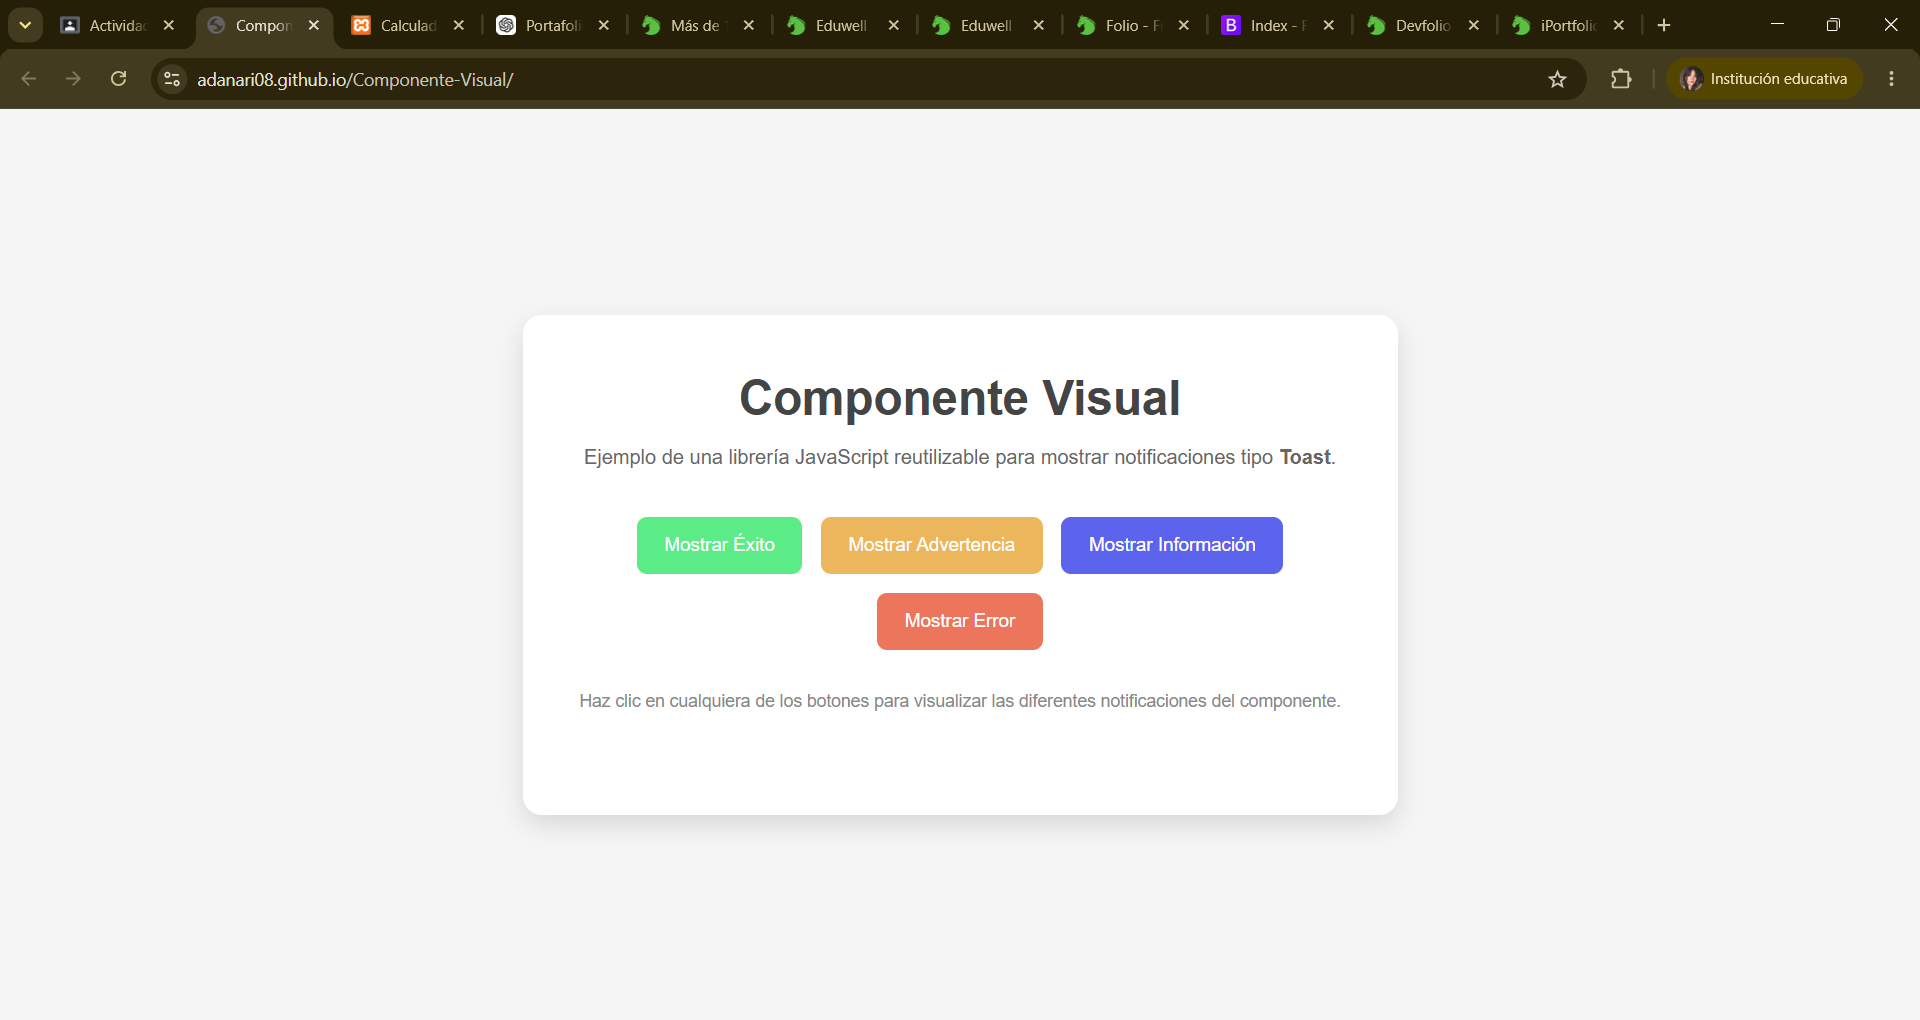
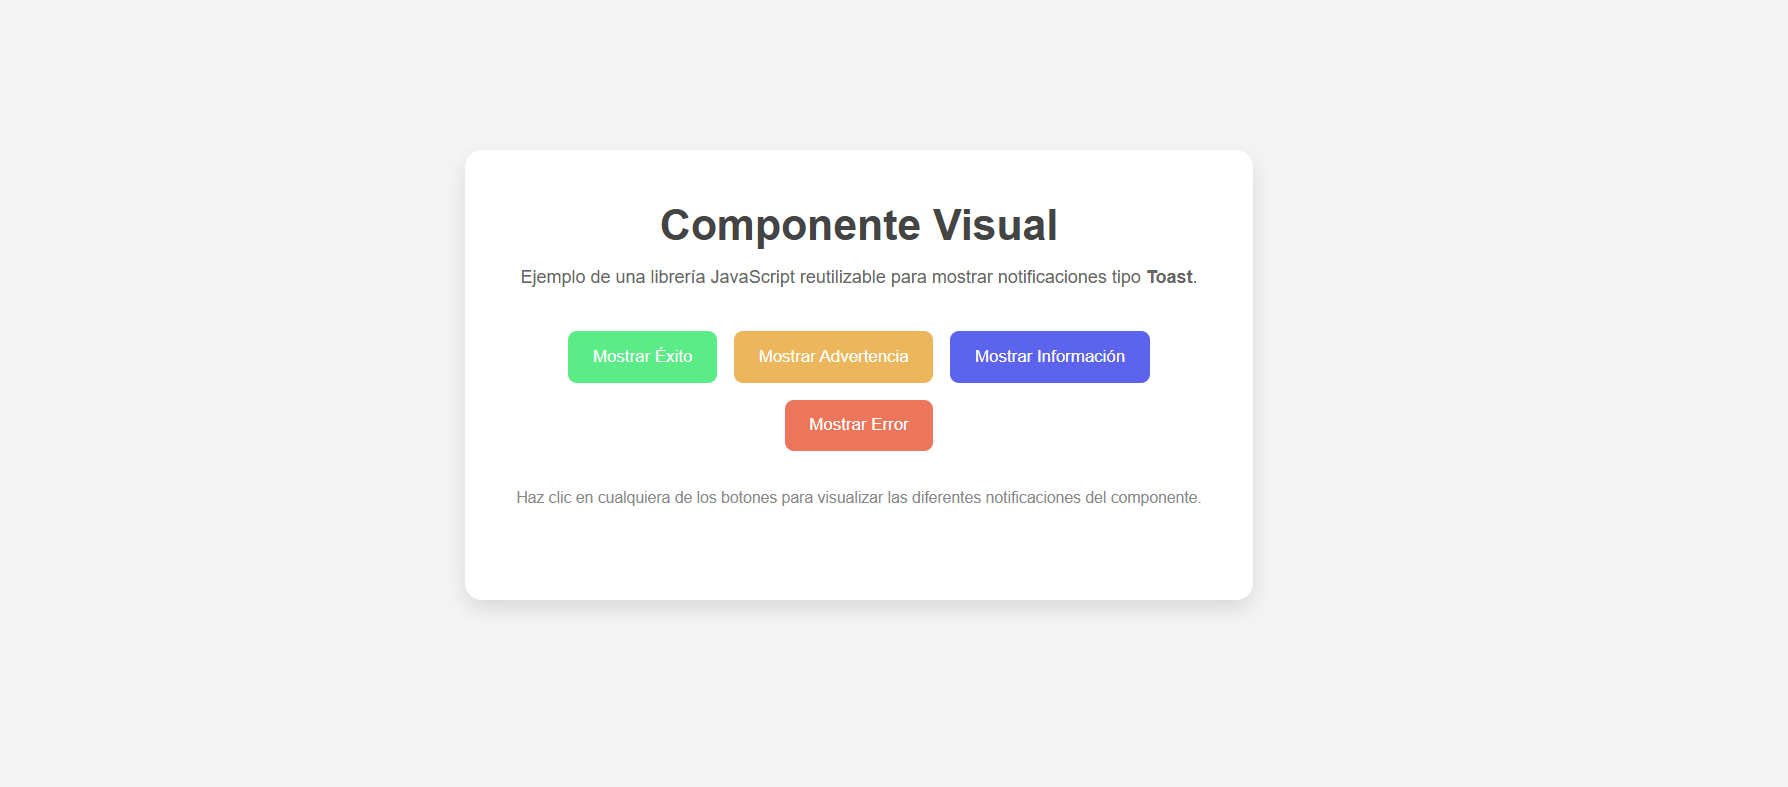
Cambios nuevos

diff --git a/index.html b/index.html
@@ -100,7 +100,7 @@
     <section id="hero" class="hero section dark-background">
 
       <img src="assets/img/hero-bg.jpg" alt="" data-aos="fade-in" class="">
-
+<!-- AOS nos da la aniamcion de que aparezca lentamendte-->
       <div class="container" data-aos="fade-up" data-aos-delay="100">
         <h2>Kelly Adanari Cruz Alonso</h2>
         <p>
@@ -176,10 +176,10 @@
 </div>
               <div class="col-lg-6">
                 <ul>
-                  <li><i class="bi bi-chevron-right"></i> <strong>Age:</strong> <span>30</span></li>
-                  <li><i class="bi bi-chevron-right"></i> <strong>Degree:</strong> <span>Master</span></li>
-                  <li><i class="bi bi-chevron-right"></i> <strong>Email:</strong> <span>[email redacted]</span></li>
-                  <li><i class="bi bi-chevron-right"></i> <strong>Freelance:</strong> <span>Available</span></li>
+                  <li><i class="bi bi-chevron-right"></i> <strong>Edad:</strong> <span>21</span></li>
+                  <li><i class="bi bi-chevron-right"></i> <strong>Grado:</strong> <span>Noveno Semestre</span></li>
+                  <li><i class="bi bi-chevron-right"></i> <strong>Correo:</strong> <span>[email redacted]</span></li>
+                  
                 </ul>
               </div>
             </div>
@@ -416,7 +416,7 @@ Estos son algunos proyectos académicos desarrollados durante mi formación en I
        title="Librería de Validaciones"
        data-gallery="portfolio-gallery"
        class="glightbox preview-link">
-
+<!-- cuando la imagen se hace grande al darle clic -->
       <i class="bi bi-zoom-in"></i>
 
     </a>